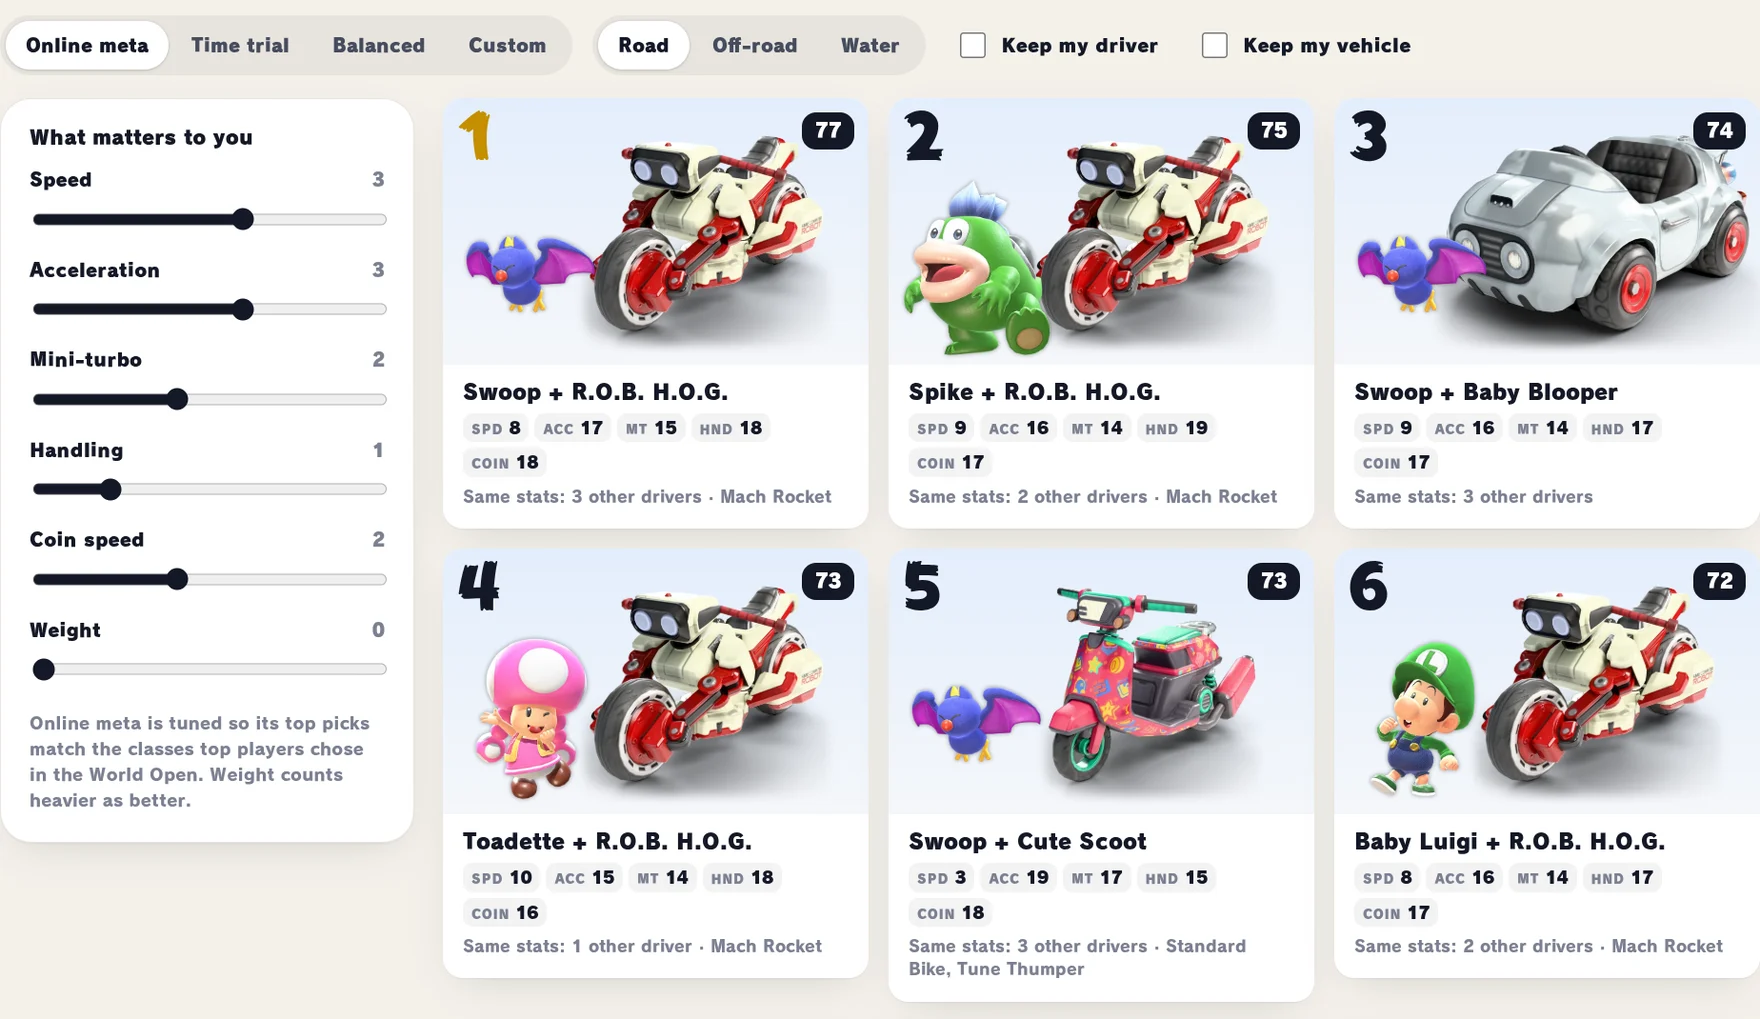
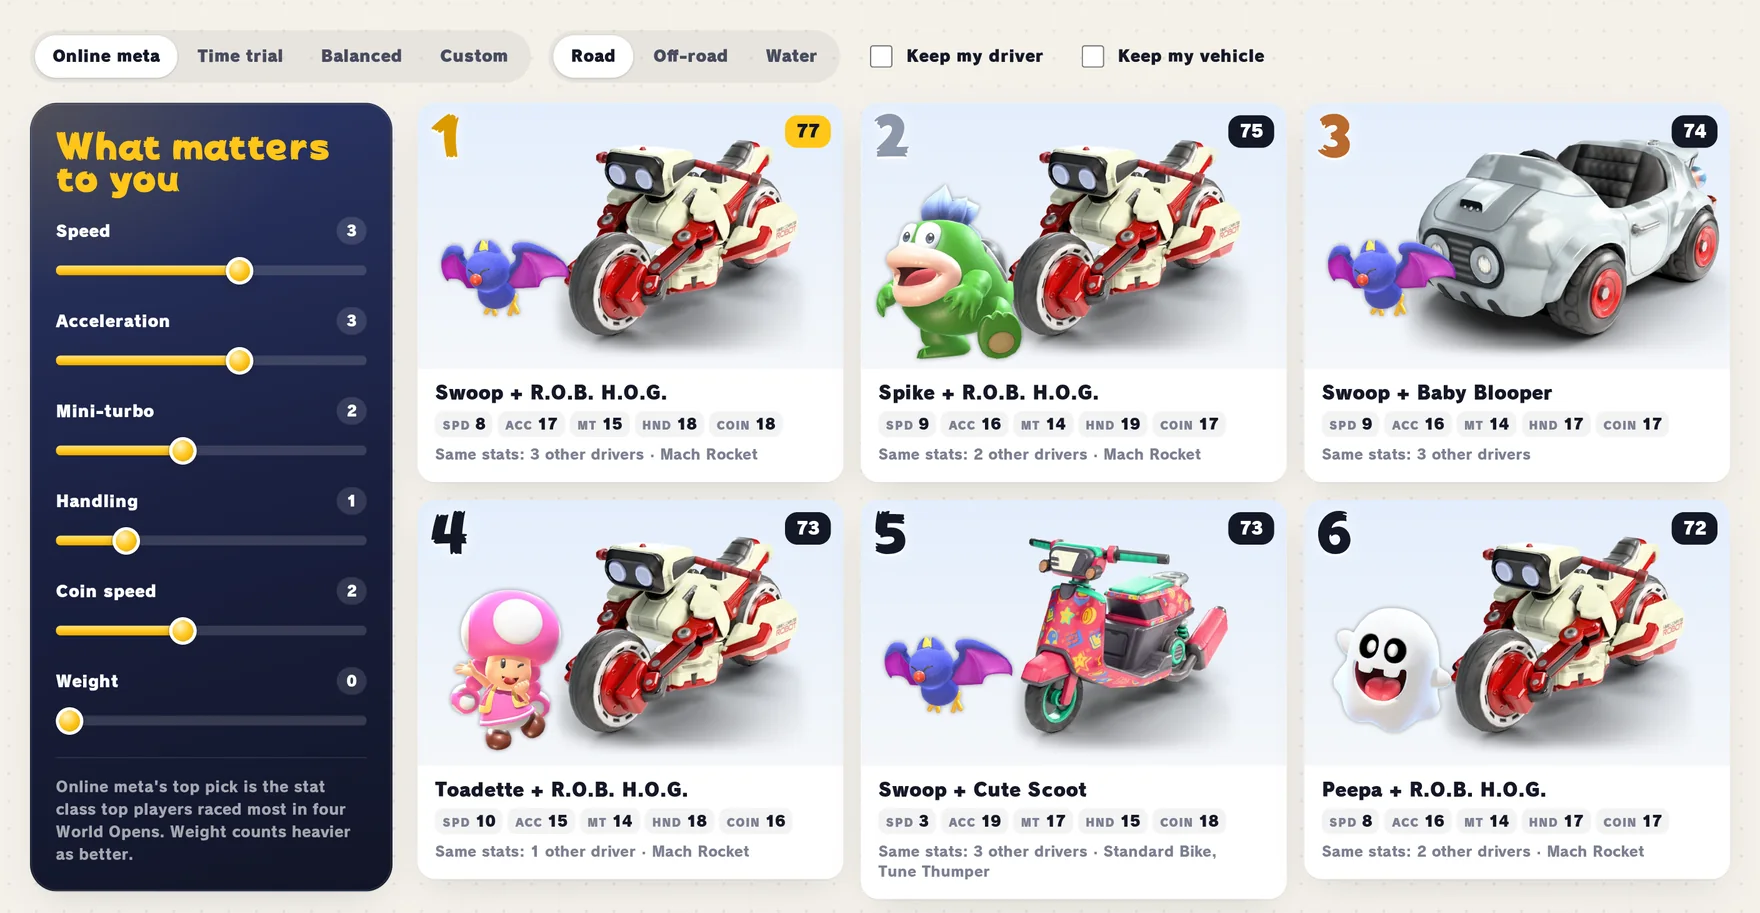
Refresh the README screenshots
- Update the Finder screenshot and its caption
- Refresh the Garage screenshot

diff --git a/README.md b/README.md
@@ -40,7 +40,7 @@ Combo Garage puts the whole roster in a visual workshop, with path-traced vehicl
 
 More acceleration after a hit? Longer mini-turbos? A little more straight-line speed? **Tell the Finder what matters to you.** It ranks the stat builds against your priorities and groups identical options, so you can choose the look you like.
 
-[![The Finder with adjustable stat weights and six ranked builds, including Swoop, Spike, Toadette and Baby Luigi.](docs/assets/finder.webp)](https://combogarage.pages.dev/#finder)
+[![The Finder with adjustable stat weights and six ranked builds, including Swoop, Spike, Toadette and Peepa.](docs/assets/finder.webp)](https://combogarage.pages.dev/#finder)
 
 The interactive **combo map** lets you explore the trade-offs between any two core stats. The **Meta** section shows what top players actually race with: every driver in the top 100 of four 2026 Mario Kart World Opens, down to the outfit, and the driver and vehicle behind each standing time trial record. Stat ranges, coin curves and builds drawn from those combos sit alongside.
 
